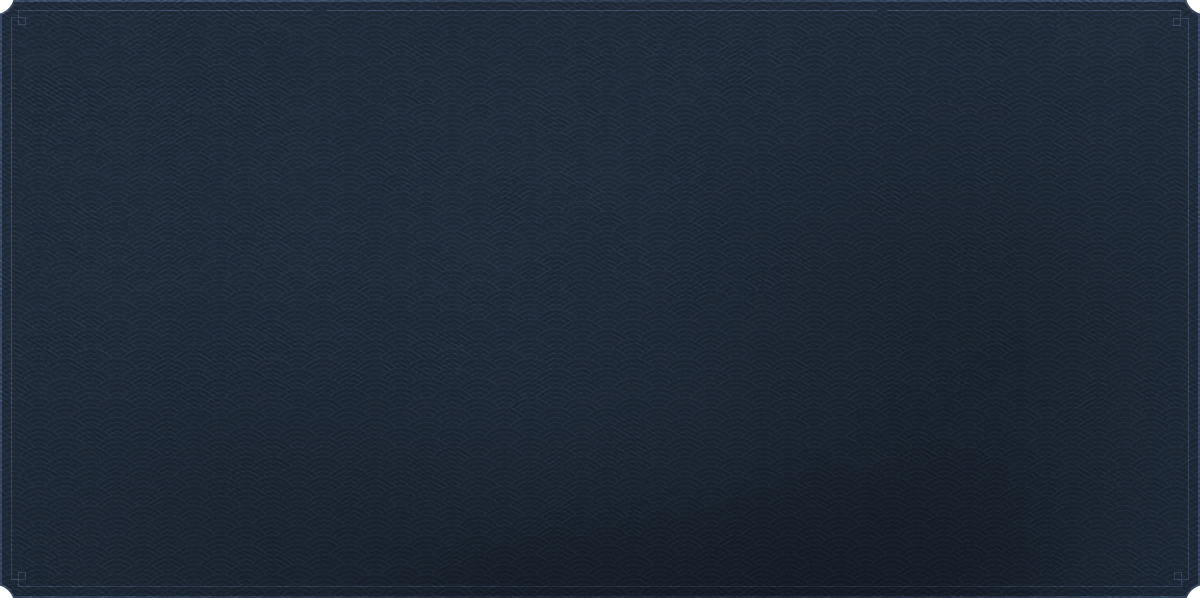
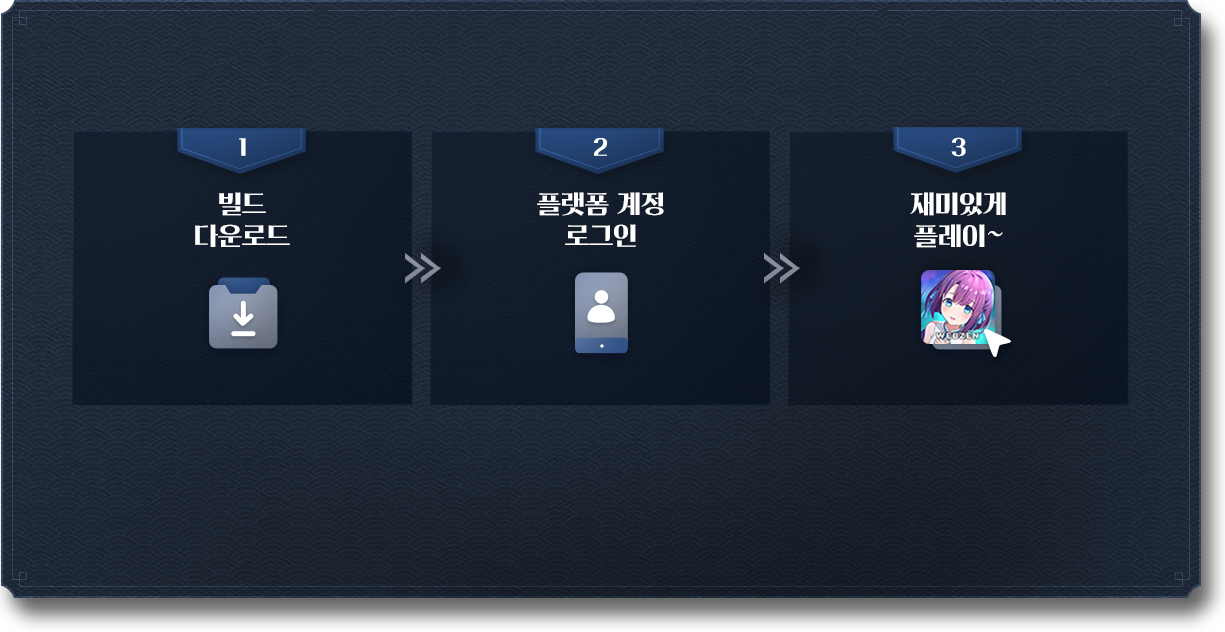
#CBT_230627

diff --git a/brand/css/cbt.css b/brand/css/cbt.css
@@ -2,11 +2,12 @@
 .cbt_wrap{}
 .cbt_wrap .content_cbtinfo{padding:100px 0;background:url('../img/cbt/bg_sect1.jpg') center no-repeat;background-size:cover}
 .cbt_wrap .title_box{display:block;text-align:center}
-.cbt_wrap .period{margin:20px 0;background:url('../img/cbt/bg_period_shadow.png') center no-repeat;color:#fff;line-height:64px;font-size:17px}
-.cbt_wrap .process_box{padding:49px 0 61px;background:url('../img/cbt/bg_sect1_list.png') center no-repeat;background-size:cover;max-width:1200px;margin:auto;text-align:center;box-shadow:2px 8px 25px #000}
-.cbt_wrap .process_box .list{margin:35px 0}
+.cbt_wrap .period{margin:20px 0;background:url('../img/cbt/bg_period_shadow.png') center no-repeat;background-size:contain;color:#fff;line-height:57px;font-size:17px}
+.cbt_wrap .process_box{background:url('../img/cbt/bg_sect1_list.png') center no-repeat;background-size:cover;max-width:1230px;margin:auto;text-align:center}
+.cbt_wrap .process_box > img{padding:45px 0 305px;}
+.cbt_wrap .process_box .btn_download{padding: 34px 0 81px}
 .cbt_wrap .process_box a{display:block;text-align:center}
-.cbt_wrap .notice p{padding-top:21px;color:#a6a8b3;text-align:center;font-size:16px;}
+.cbt_wrap .notice p{color:#a6a8b3;text-align:center;font-size:16px;}
 .cbt_wrap .content_cbtevent{background: url('../img/cbt/bg_sect2.jpg') center no-repeat;background-size:cover}
 .cbt_wrap .content_cbtevent .desc {padding-top:30px}
 .cbt_wrap .content_cbtevent .event_box .btn_event{margin:20px 8px}
@@ -18,5 +19,14 @@
 }
 
 @media screen and (max-width: 780px){
-    .cbt_wrap .process_box{background-image: url('../img/cbt/bg_sect1_list_m.png'); max-width: 647px; padding: 30px}
+    .cbt_wrap .process_box{background-image: url('../img/cbt/bg_sect1_list_m.png')}
+    .cbt_wrap .process_box > img{padding: 50px 0 324px}
+    .cbt_wrap .process_box .btn_download{padding: 40px 0 101px}
+}
+
+@media screen and (max-width: 500px){
+    .cbt_wrap .period {line-height: 43px;font-size: 13px}
+    .cbt_wrap .process_box > img{padding:26px 0 155px;width:50%}
+    .cbt_wrap .process_box .btn_download{padding:48px 0 50px}
+    .cbt_wrap .process_box .btn_download img {width: 55%;}
 }

diff --git a/brand/cbt.html b/brand/cbt.html
@@ -144,11 +144,8 @@
                 </div>
                 <div class="process_box">
                     <img src="img/cbt/cbt_sect1_text.png" alt="CBT 참여 방법">
-                    <img src="img/cbt/cbt_sect1_list.png" alt="빌드 다운로드>>플랫폼 계정 로그인>>재미있게 플레이~" class="list pc">
-                    <img src="img/cbt/cbt_sect1_list_m.png" alt="빌드 다운로드>>플랫폼 계정 로그인>>재미있게 플레이~" class="list mobile">
                     <a href="#" class="btn_download">
-                        <img src="img/cbt/btn_download.png" alt="라그나돌 다운로드" class="pc">
-                        <img src="img/cbt/btn_download_m.png" alt="라그나돌 다운로드" class="mobile">
+                        <img src="img/cbt/btn_download.png" alt="라그나돌 다운로드">
                     </a>
                 </div>
                 <div class="notice">
